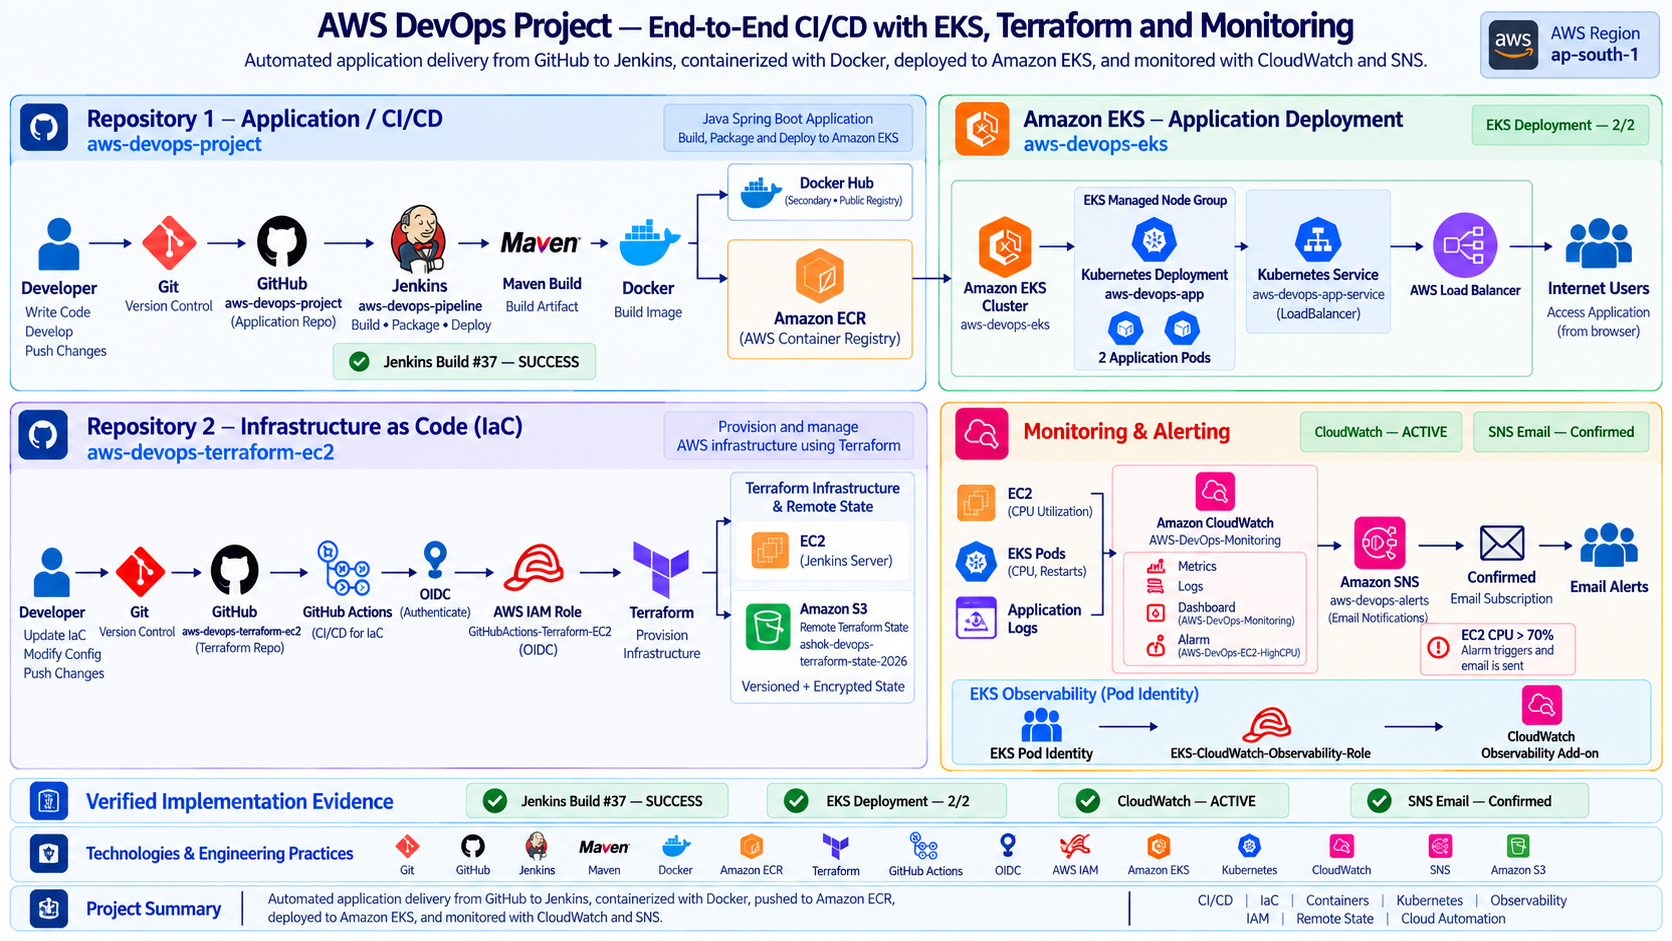
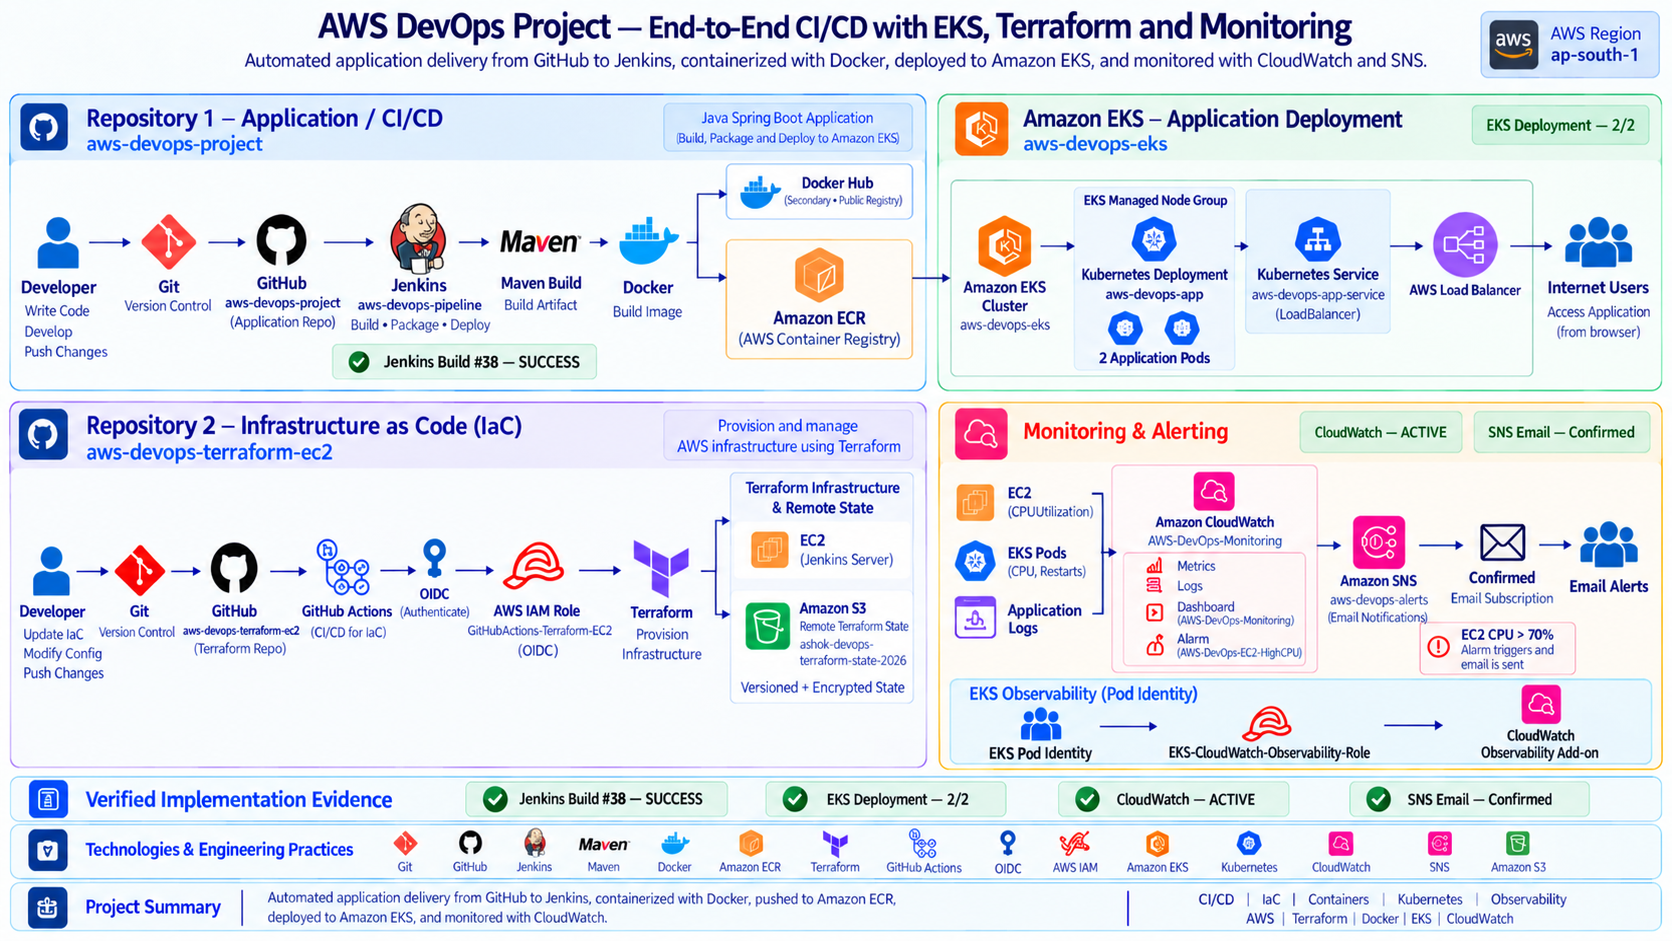
Finalize README and architecture documentation

diff --git a/README.md b/README.md
@@ -48,7 +48,7 @@ Build
 
 ### Latest Verified Build
 
-`Build #37 — SUCCESS` `
+Build #38 — SUCCESS
 
 ### Maven Build
 
@@ -64,7 +64,7 @@ The current pipeline therefore performs application build and packaging without 
 
 ### Docker Hub
 
-``text
+```text
 ashokcsdev/aws-devops-project:latest
 ```
 
@@ -72,13 +72,13 @@ Docker Hub is used as a `Secondary Public Registry` .
 
 ### Amazon ECR
 
-``text
+```text
 839084984521.dkr.ecr.ap-south-1.amazonaws.com/aws-devops-project:latest
 ```
 
 Amazon ECR is the `Primary Deployment Registry`.
 
-The Kubernetes deployment manifest and the running KES deployment have been verified to use this ECR image.
+The Kubernetes deployment manifest and the running EKS deployment have been verified to use this ECR image.
 
 ### Deployment Path
 
@@ -296,7 +296,7 @@ The project uses AWS Identity and Access Management (IAM) roles for CI/CD and in
 
 The following implementation evidence was verified during the project:
 
-- **Jenkins Build #37:** SUCCESS
+- **Jenkins Build #38:** SUCCESS
 - **Amazon EKS Deployment:** `aws-devops-app` verified at 2/2 Ready and 2 Available
 - **Amazon ECR:** ECR image verified as the running application image
 - **CloudWatch:** `amazon-cloudwatch-observability` add-on ACTIVE with no health issues
